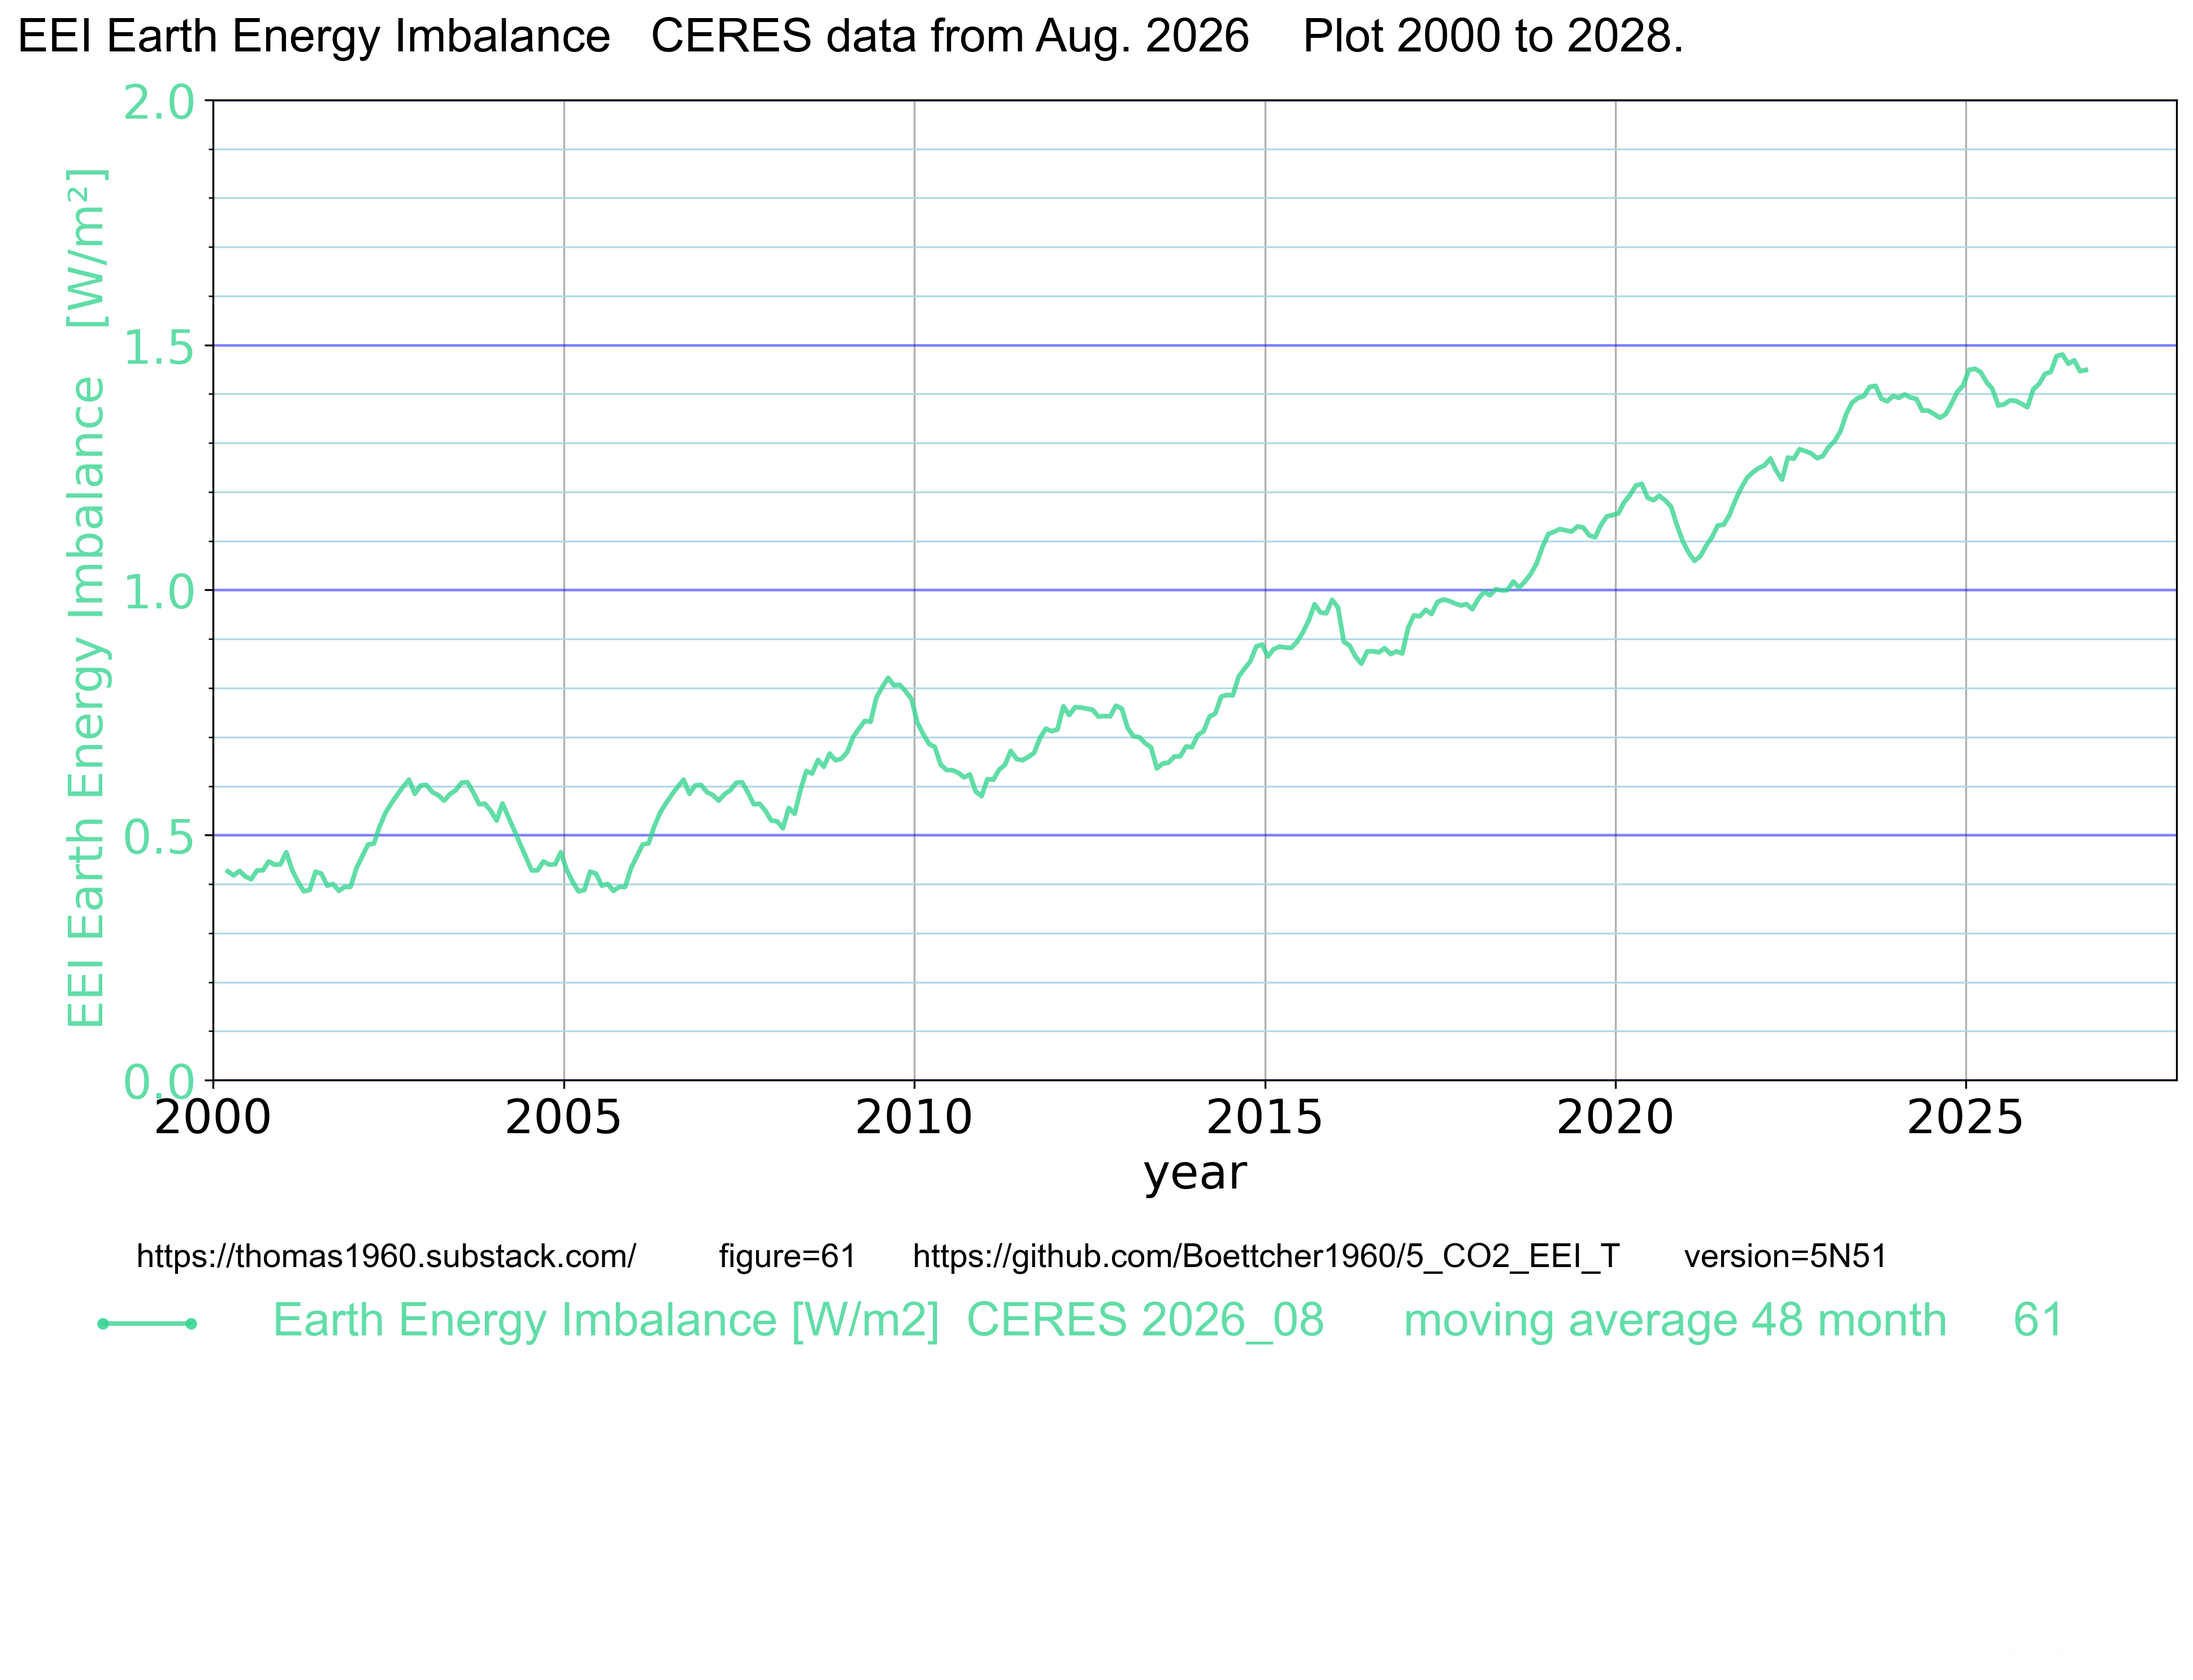
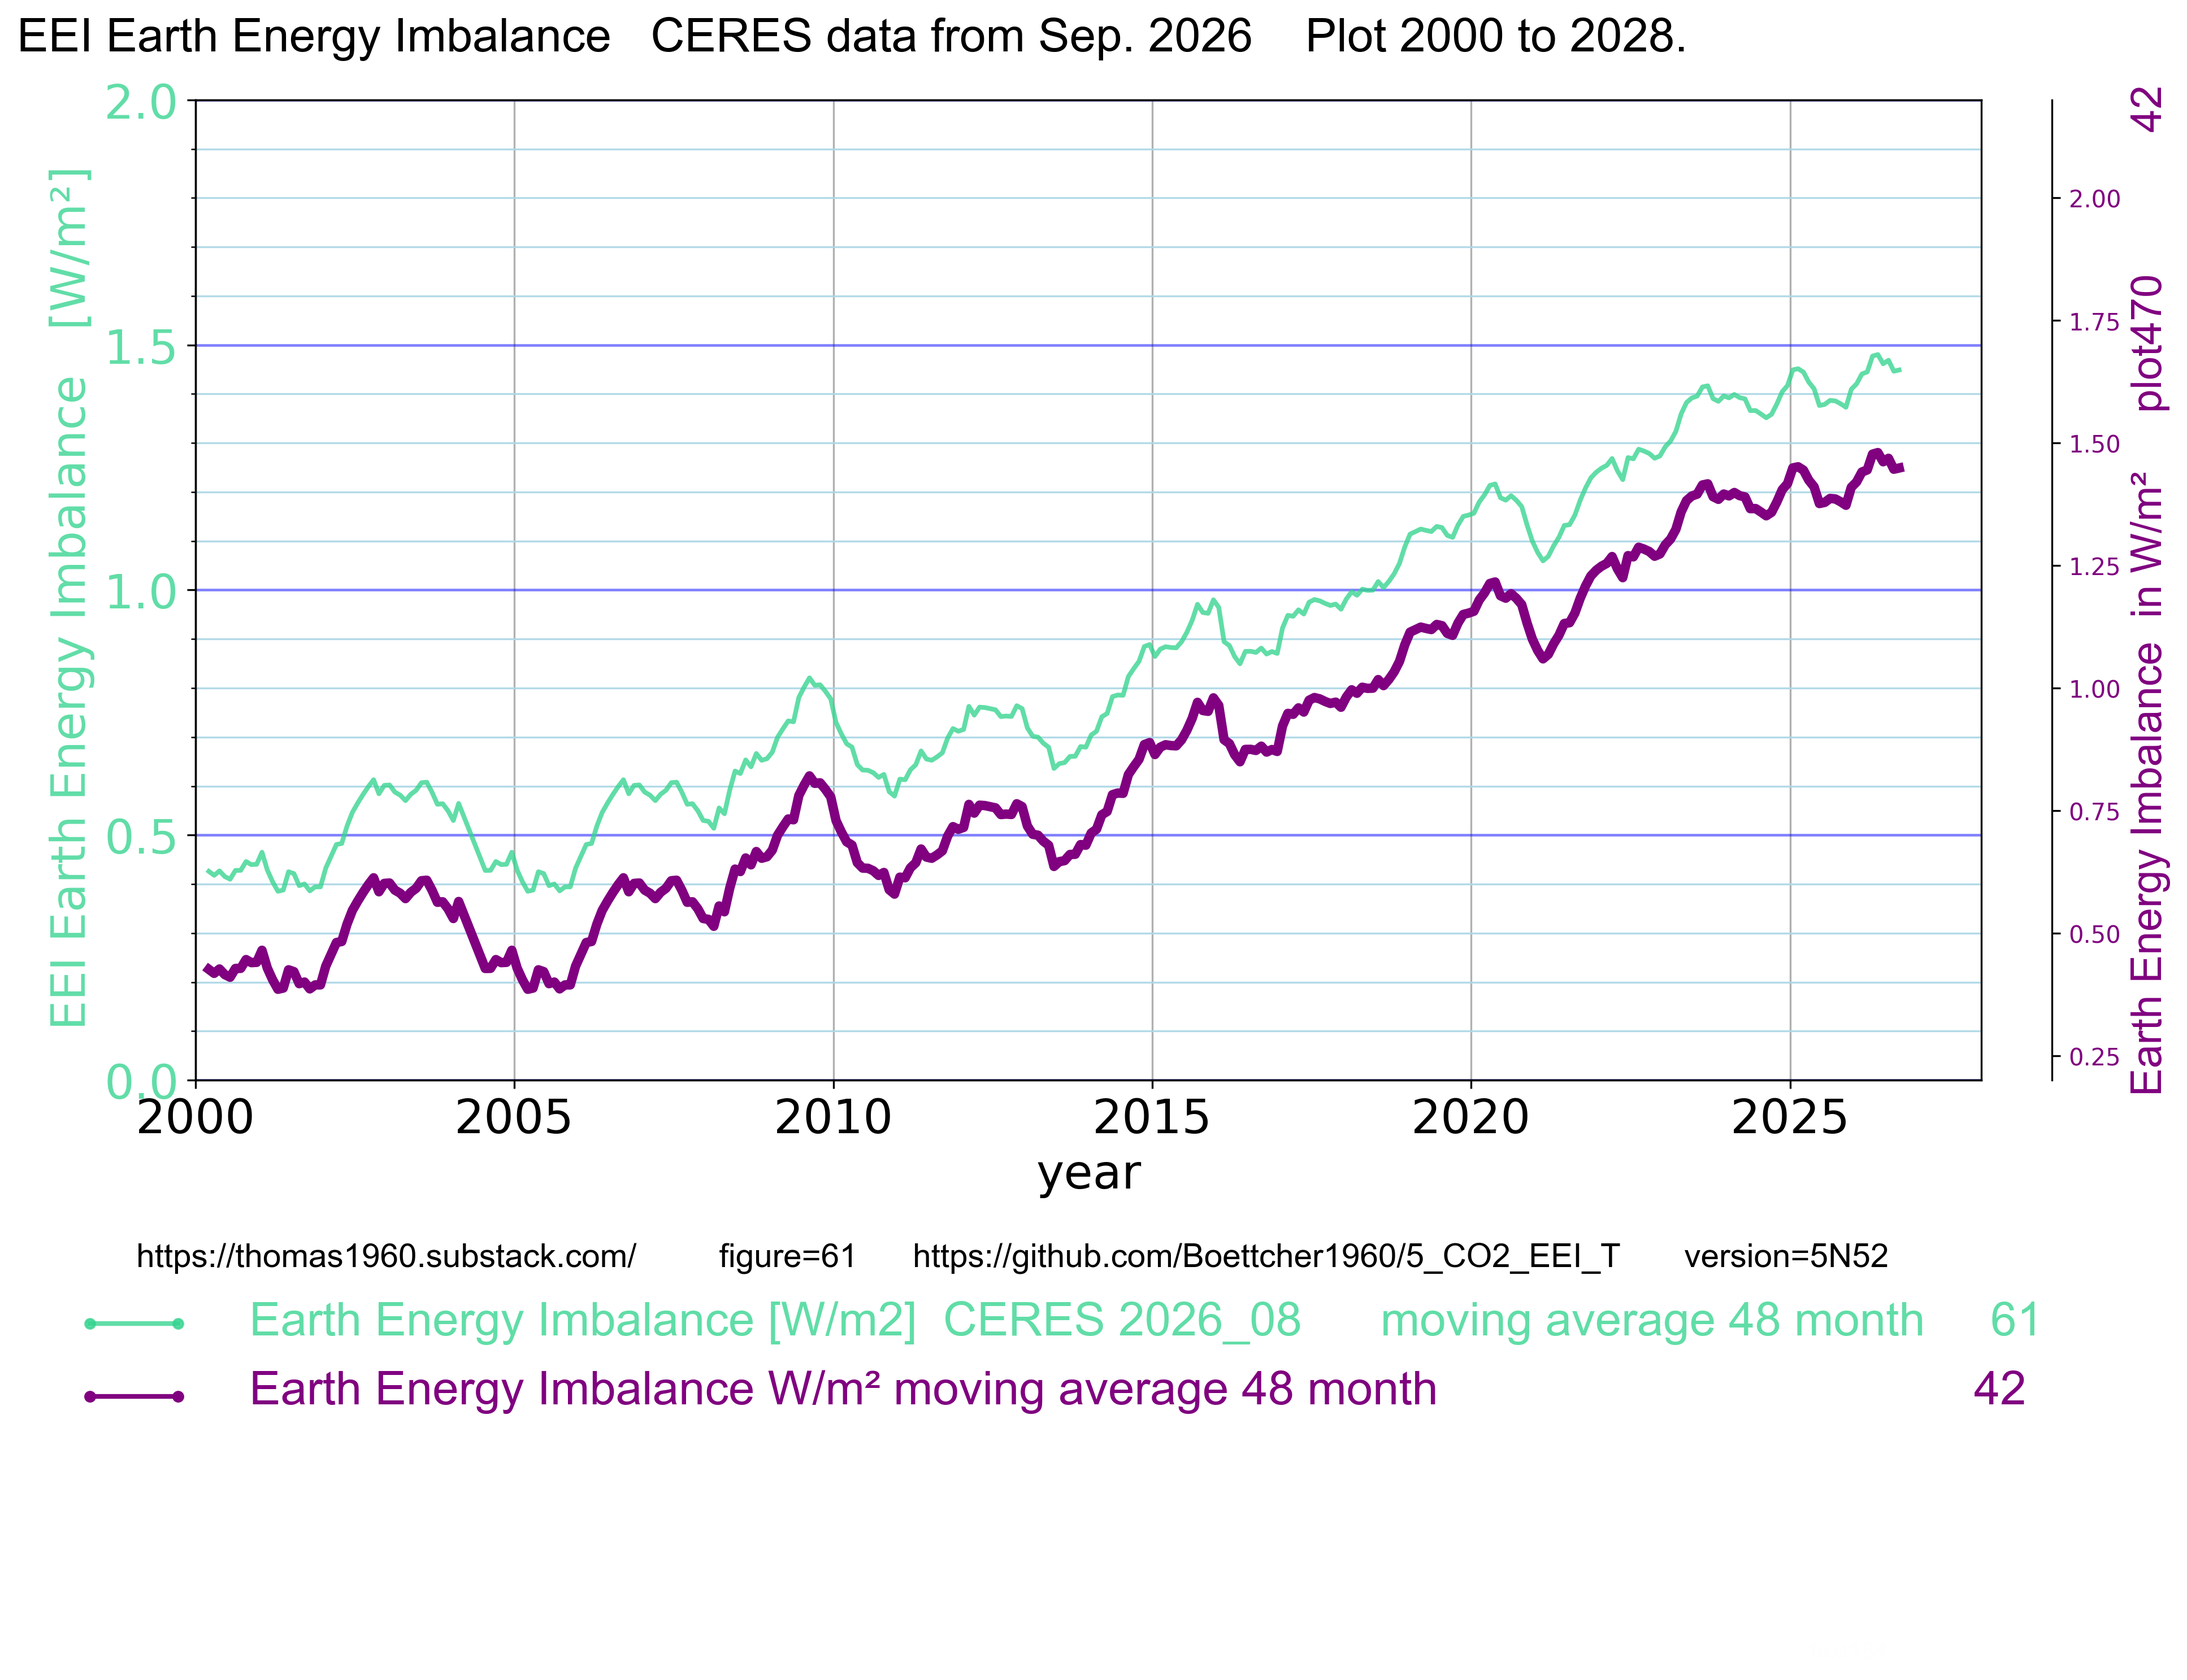
5N52" # # 42.12    main.py line 78   change the path      data['ceres_42'] = pd.read_csv("read_csv/42_EEI48month_2026_09.csv") #

diff --git a/models.py b/models.py
@@ -227,11 +227,15 @@ def T_model76(t):
 # plot42_EEI_48month ############################################
 ############### see 41 process 4 CERES files ####################
 # 42.1 open https://ceres-tool.larc.nasa.gov/ord-tool/srbavg
-# 41.2 download CERES_EBAF-TOA_Ed4.2.1_TOA_Net_Flux_-_All-Sky_March-2000toAugust-2026.txt
-# 41.3 copy txt to work/_61_in__2026_08_EEI_CERES.txt
+# 42.2 download CERES_EBAF-TOA_Ed4.2.1_TOA_Net_Flux_-_All-Sky_March-2000toSeptember-2026.txt
+# 42.3 move to     read_csv/CERES_EBAF-TOA_Ed4.2.1_TOA_Net_Flux_-_All-Sky_March-2000toSeptember-2026.txt
 # 42.4 run with play_61_EEI = 48
-# 42.6 copy to read_csv/_42_EEI48month_2026_08.csv
-# 42.8 set plot42_EEI_48month = 3  # 2,3,4,5 print EEI 48 month running mean
+# 42.5 doublicate    work/61c_out_EEI.csv   to
+# 42.6 paste to    read_csv/_42_EEI48month_2026_09.csv
+# 42.11 in main.py line 77  if plot42_EEI_48month > 0: # 
+# 42.12    main.py line 78   change the path      data['ceres_42'] = pd.read_csv("read_csv/42_EEI48month_2026_09.csv")
+# 42.18 set plot42_EEI_48month = 3  # 2,3,4,5 print EEI 48 month running mean
+#
 # 2026.10.15 plots  plot42_EEI_48month = 2
 # 2026.10.15 plots  plot42_EEI_48month = 3
 # 2026.10.20 plots  plot42_EEI_48month = 4

diff --git a/main.py b/main.py
@@ -1,5 +1,5 @@
 # main.py
-v = "5N52" # df61c = create404_running_average( 'work/61b_out_in_ceres.csv', 
+v = "5N52" # # 42.12    main.py line 78   change the path      data['ceres_42'] = pd.read_csv("read_csv/42_EEI48month_2026_09.csv")
 #
 #
 #
@@ -75,8 +75,8 @@ def load_plot_data():
         if print_debug > 9:
             print(f"main__62: 30.69 read ={plot30_c}")  
     if plot42_EEI_48month > 0: # _plot_42_41g50.csv"
-        data['ceres_42'] = pd.read_csv("read_csv/_42_EEI48month_2026_08.csv")
-        # 249 bug data['ceres_48'] = pd.read_csv("read_csv/_42_EEI48month_made_by_61c.csv")
+        data['ceres_42'] = pd.read_csv("read_csv/42_EEI48month_2026_09.csv")
+        # data['ceres_42'] = pd.read_csv("read_csv/_42_EEI48month_2026_08.csv")
     if plot43_eei_12month > 0: # 43.2 read1 _43_EEI12month_made_by_61c.csv a44d_ceres_12month_EEI
     #   data['ceres_43'] = pd.read_csv("read_csv/_43_EEI12month_2026_02.csv")
         data['ceres_43'] = pd.read_csv("read_csv/_43_EEI12month_2026_08.csv")
